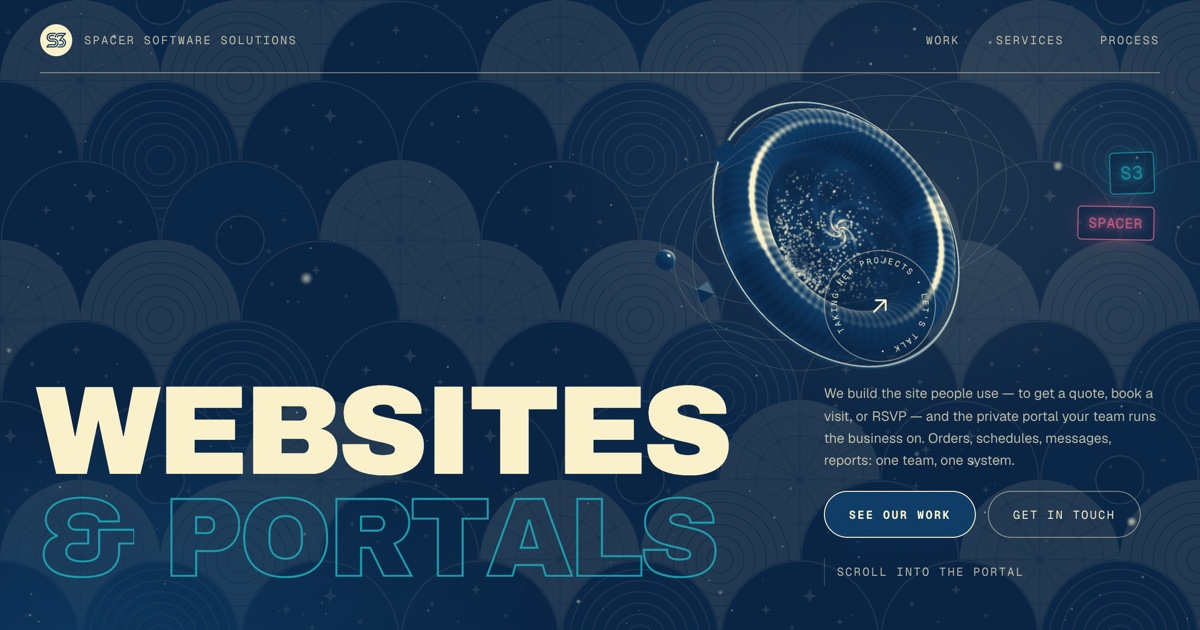
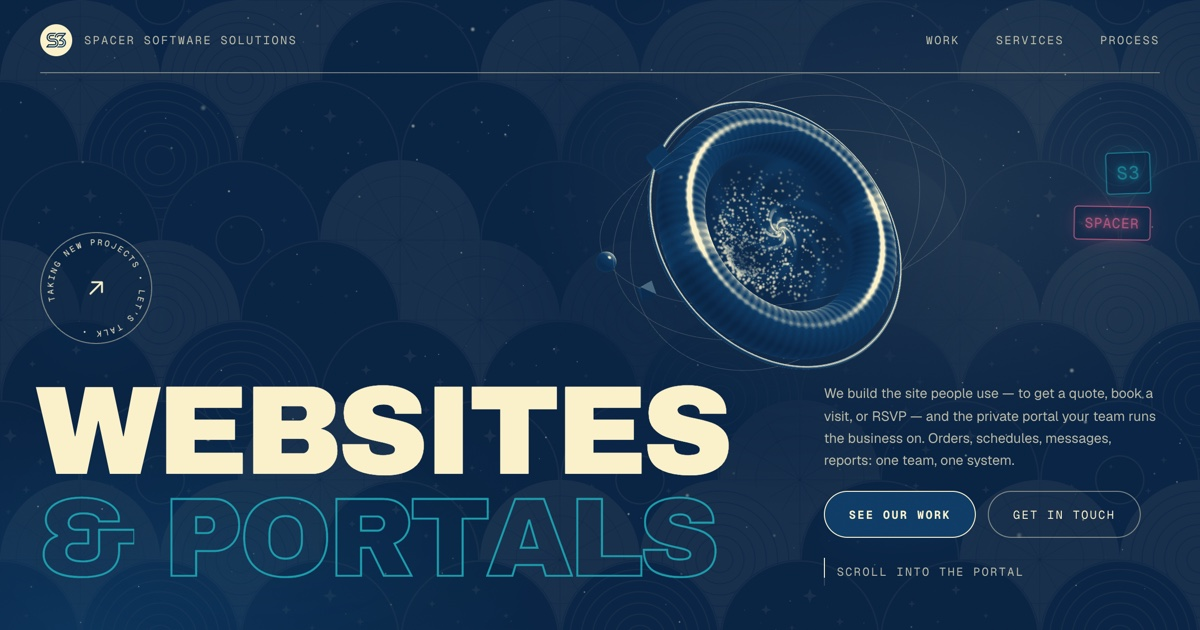
fix

diff --git a/src/components/Hero.tsx b/src/components/Hero.tsx
@@ -44,44 +44,31 @@ function GlowText({
 
 // The two neon signs, as on the live site: they slide in from the right,
 // hold, drift, and slide away again on an 11-second loop.
-function Signage({ loaded }: { loaded: boolean }) {
-  const slide = (from: number) => ({
-    initial: { x: from, opacity: 0 },
-    animate: loaded ? { x: [from, 0, 0, from], opacity: [0, 1, 1, 0] } : { x: from, opacity: 0 },
-    transition: loaded
-      ? { duration: 11, times: [0, 0.42, 0.58, 1], delay: 1.6, repeat: Infinity, ease: "easeInOut" as const }
-      : undefined,
-  });
+function Signage({ loaded, small, className }: { loaded: boolean; small?: boolean; className: string }) {
+  const from = small ? 200 : 260;
   return (
-    <>
-      {/* desktop */}
-      <motion.div
-        aria-hidden
-        className="pointer-events-none absolute top-32 right-0 hidden lg:block xl:right-2"
-        {...slide(260)}
+    <motion.div
+      aria-hidden
+      className={`pointer-events-none ${className}`}
+      initial={{ x: from, opacity: 0 }}
+      animate={loaded ? { x: [from, 0, 0, from], opacity: [0, 1, 1, 0] } : { x: from, opacity: 0 }}
+      transition={
+        loaded
+          ? { duration: 11, times: [0, 0.42, 0.58, 1], delay: 1.6, repeat: Infinity, ease: "easeInOut" }
+          : undefined
+      }
+    >
+      <div
+        className={`relative flex animate-[signage-drift_12s_ease-in-out_infinite] flex-col items-end ${small ? "gap-2" : "gap-3"}`}
       >
-        <div className="relative flex animate-[signage-drift_12s_ease-in-out_infinite] flex-col items-end gap-3">
-          <GlowText color="var(--headline)" boxed flicker className="-rotate-2 text-lg">
-            S3
-          </GlowText>
-          <GlowText color="var(--sign)" boxed className="rotate-1 text-sm">
-            SPACER
-          </GlowText>
-        </div>
-      </motion.div>
-
-      {/* mobile: just under the top bar, clear of the type */}
-      <motion.div aria-hidden className="pointer-events-none absolute top-20 right-0 lg:hidden" {...slide(200)}>
-        <div className="relative flex animate-[signage-drift_12s_ease-in-out_infinite] flex-col items-end gap-2">
-          <GlowText color="var(--headline)" boxed flicker className="-rotate-2 text-sm">
-            S3
-          </GlowText>
-          <GlowText color="var(--sign)" boxed className="rotate-1 text-xs">
-            SPACER
-          </GlowText>
-        </div>
-      </motion.div>
-    </>
+        <GlowText color="var(--headline)" boxed flicker className={`-rotate-2 ${small ? "text-sm" : "text-lg"}`}>
+          S3
+        </GlowText>
+        <GlowText color="var(--sign)" boxed className={`rotate-1 ${small ? "text-xs" : "text-sm"}`}>
+          SPACER
+        </GlowText>
+      </div>
+    </motion.div>
   );
 }
 
@@ -130,12 +117,13 @@ function Badge({ small }: { small?: boolean }) {
   );
 }
 
-// The celestial pattern, at 10%, behind everything.
+// The celestial pattern, quiet, behind everything — and fading away behind the
+// portal, so the ring's fine detail isn't fighting the scallops.
 function PatternLayer() {
   return (
     <div
       aria-hidden
-      className="pointer-events-none absolute inset-0 -z-20 opacity-10 [background-size:340px_340px] md:[background-size:480px_480px]"
+      className="pointer-events-none absolute inset-0 -z-20 opacity-[0.06] [background-size:340px_340px] [mask-image:radial-gradient(ellipse_34%_40%_at_58%_24%,transparent_35%,black_100%)] md:[background-size:480px_480px] lg:[mask-image:radial-gradient(ellipse_28%_44%_at_65%_38%,transparent_30%,black_100%)]"
       style={{ backgroundImage: CELESTIAL_PATTERN }}
     />
   );
@@ -249,7 +237,7 @@ export function Hero() {
               : { opacity: typeOpacity, y: typeY, scale: typeScale, filter: typeBlur, pointerEvents: typeEvents }
           }
         >
-          <Signage loaded={loaded} />
+          <Signage loaded={loaded} className="absolute top-32 right-0 hidden lg:block xl:right-2" />
 
           {/* the top bar, ruled: the maker on the left, the way around on the right */}
           <div data-hero-bar>
@@ -277,35 +265,47 @@ export function Hero() {
           {/* the wordmark, bottom-left; the small print, bottom-right */}
           <div
             data-hero-content
-            className="mt-auto grid items-end gap-10 pt-20 lg:grid-cols-[minmax(0,1fr)_minmax(0,21rem)] lg:gap-12"
+            // on phones, always leave the portal its room above the wordmark
+            // (the ring reaches about 0.6 of the screen width below the top bar)
+            className="mt-auto grid items-end gap-10 pt-[calc(60vw+1.5rem)] md:pt-20 lg:grid-cols-[minmax(0,1fr)_minmax(0,21rem)] lg:gap-12"
           >
-            <h1 className="display -ml-[0.04em] text-[length:var(--hero-fs)] leading-[0.9] uppercase">
-              <span className="block text-fg">
-                <Split as="span" by="char" active={loaded} delay={0.1}>
-                  Websites
-                </Split>
-              </span>
-              <span ref={flickerRef} className="text-outline relative block text-[length:calc(var(--hero-fs)*0.885)]">
-                <span
-                  aria-hidden
-                  className="pointer-events-none absolute inset-0 -z-10 animate-[glow-pulse_7s_ease-in-out_infinite] blur-3xl"
-                  style={{
-                    background: "radial-gradient(ellipse 60% 70% at 30% 50%, rgb(var(--outline-rgb)/0.3), transparent 70%)",
-                  }}
-                />
-                <span key={flickerCycle} className="inline-block animate-[neon-flicker_7s_ease-in-out_infinite]">
-                  <Split as="span" by="char" active={loaded} delay={0.3}>
-                    & Portals
-                  </Split>
-                  <Shine delay={0.8} by="char">& Portals</Shine>
-                </span>
-              </span>
-            </h1>
-
-            <div className="flex flex-col gap-5 lg:pb-1">
-              <FadeUp active={loaded} delay={0.7} className="pointer-events-auto">
+            <div className="relative">
+              {/* on desktop the badge rides above the wordmark, off the portal */}
+              <FadeUp active={loaded} delay={0.7} className="absolute bottom-full left-0 mb-8 hidden lg:block">
                 <Badge small />
               </FadeUp>
+              <h1 className="display -ml-[0.04em] text-[length:var(--hero-fs)] leading-[0.9] uppercase">
+                <span className="block text-fg">
+                  <Split as="span" by="char" active={loaded} delay={0.1}>
+                    Websites
+                  </Split>
+                </span>
+                <span ref={flickerRef} className="text-outline relative block text-[length:calc(var(--hero-fs)*0.885)]">
+                  <span
+                    aria-hidden
+                    className="pointer-events-none absolute inset-0 -z-10 animate-[glow-pulse_7s_ease-in-out_infinite] blur-3xl"
+                    style={{
+                      background: "radial-gradient(ellipse 60% 70% at 30% 50%, rgb(var(--outline-rgb)/0.3), transparent 70%)",
+                    }}
+                  />
+                  <span key={flickerCycle} className="inline-block animate-[neon-flicker_7s_ease-in-out_infinite]">
+                    <Split as="span" by="char" active={loaded} delay={0.3}>
+                      & Portals
+                    </Split>
+                    <Shine delay={0.8} by="char">& Portals</Shine>
+                  </span>
+                </span>
+              </h1>
+            </div>
+
+            <div className="flex flex-col gap-5 lg:pb-1">
+              <div className="flex items-center justify-between gap-4 lg:hidden">
+                <FadeUp active={loaded} delay={0.7} className="pointer-events-auto">
+                  <Badge small />
+                </FadeUp>
+                {/* on phones the signs sit here, beside the badge, clear of the portal */}
+                <Signage loaded={loaded} small className="mr-1" />
+              </div>
               <FadeUp active={loaded} delay={0.5}>
                 <p className="text-[0.85rem] leading-relaxed text-muted">{site.intro}</p>
               </FadeUp>

diff --git a/src/components/HeroPortal3D.tsx b/src/components/HeroPortal3D.tsx
@@ -410,7 +410,7 @@ export function HeroPortal3D({ stage, track, loaded }: Props) {
           // (perspective makes the tilted ring's near edge reach further
           // than its radius, hence the extra 15%)
           size = Math.min(H * 0.82, W * 0.52, band / ((RING_OUTER / MODEL_RADIUS) * 1.15));
-          cx = W * 0.7;
+          cx = W * 0.65;
           cy = top + band * 0.47;
         } else if (W >= 768) {
           size = Math.min(H * 0.6, W * 0.78);
